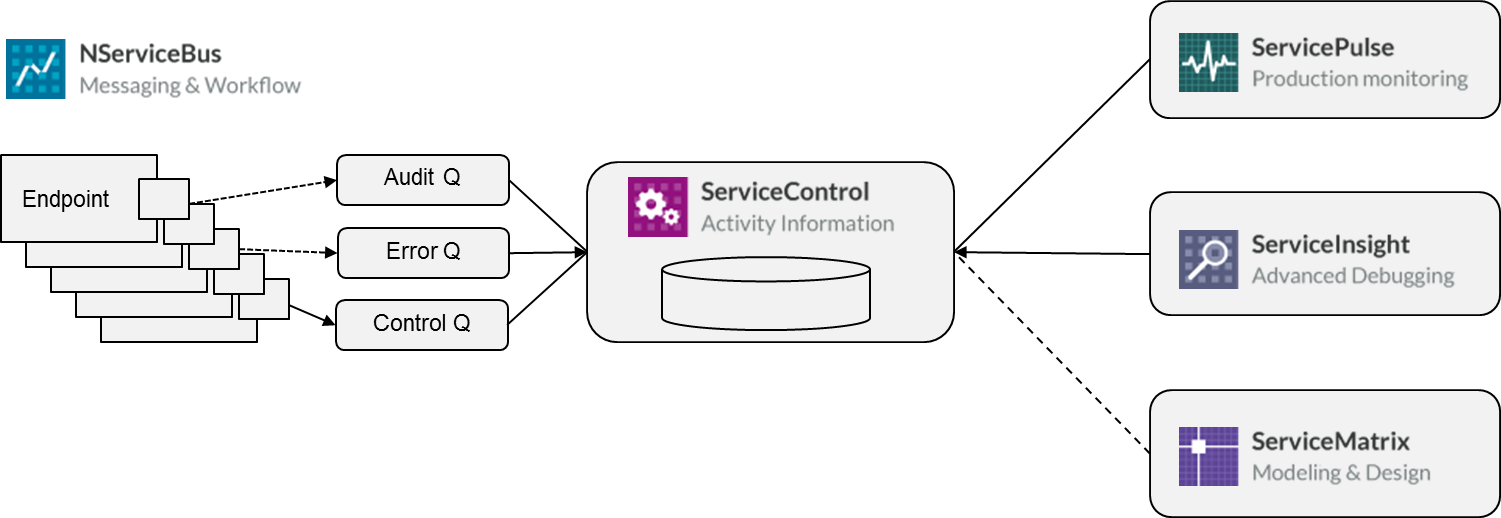
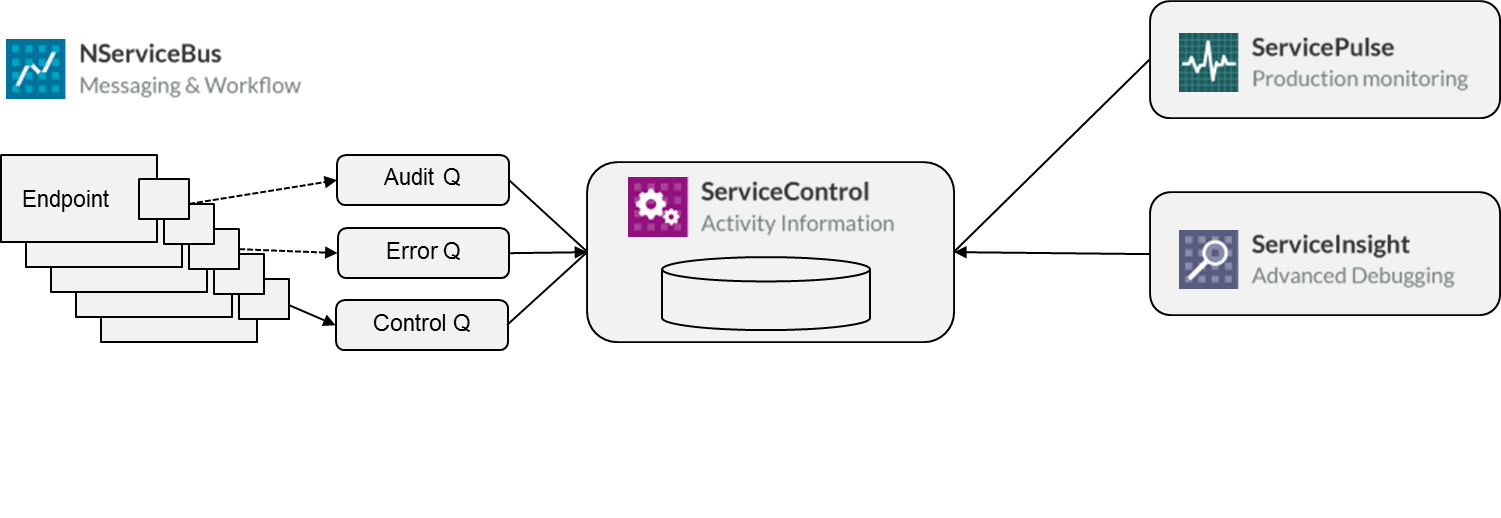
Removed ServiceMatrix from Platform Overview.
Relates to https://github.com/Particular/PlatformDevelopment/issues/454

Changed region(s): [[0.7662, 0.8031, 0.95, 0.9575], [0.7662, 0.9575, 1.0, 1.0], [0.7662, 0.7413, 1.0, 0.7722]]

diff --git a/platform/index.md b/platform/index.md
@@ -49,13 +49,6 @@ ServicePulse is a web application aimed mainly at administrators. It gives you a
 You will get notified when the endpoint is down or when a message fails. You can also specify your own custom checks and get alerts. The interface allows you to perform the common operations for failure recovery, such as retrying failed messages. You can also [subscribe to publicly exposed events](/servicepulse/custom-notification-and-alerting-using-servicecontrol-events.md), in order to display and handle them in a custom way.
 
 
-## [ServiceMatrix](/servicematrix) - faster prototyping
-
-ServiceMatrix is a Visual Studio extension for VS2012 and VS2013. As an Architect or a Systems Design Engineer, you can quickly design your system on the design canvas and generate a prototype based on your design. You can customize the generated code to suit your prototyping needs.
-
-ServiceMatrix is perfect for Proof of Concept, prototyping and discussing project design with a team of developers. Having a working prototype with visualization helps to clarify the design better in terms of how the system works. Combined with the run time visualization from ServiceInsight, the team can see how information and messages flow through the various endpoints using message flow and sequence diagrams.
-
-
 ## How do you work with the platform?
 
 Having ServiceControl and ServiceInsight installed locally on your machine gives you significant benefits during development, especially when you investigate failures and defects. Additionally, if you develop a [custom check](/servicecontrol/plugins/custom-checks.md) it is useful to have the full platform installed on your development machine.
